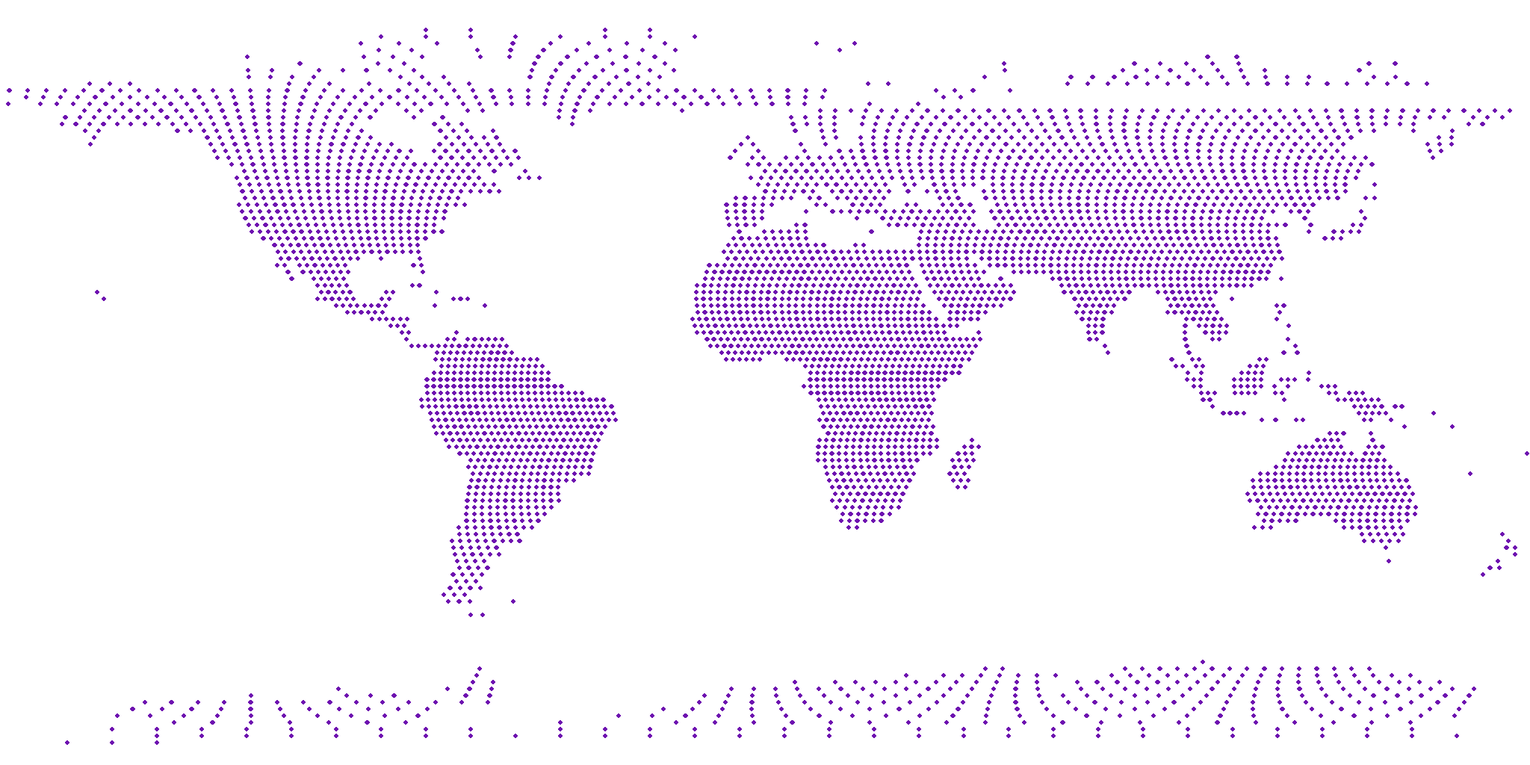
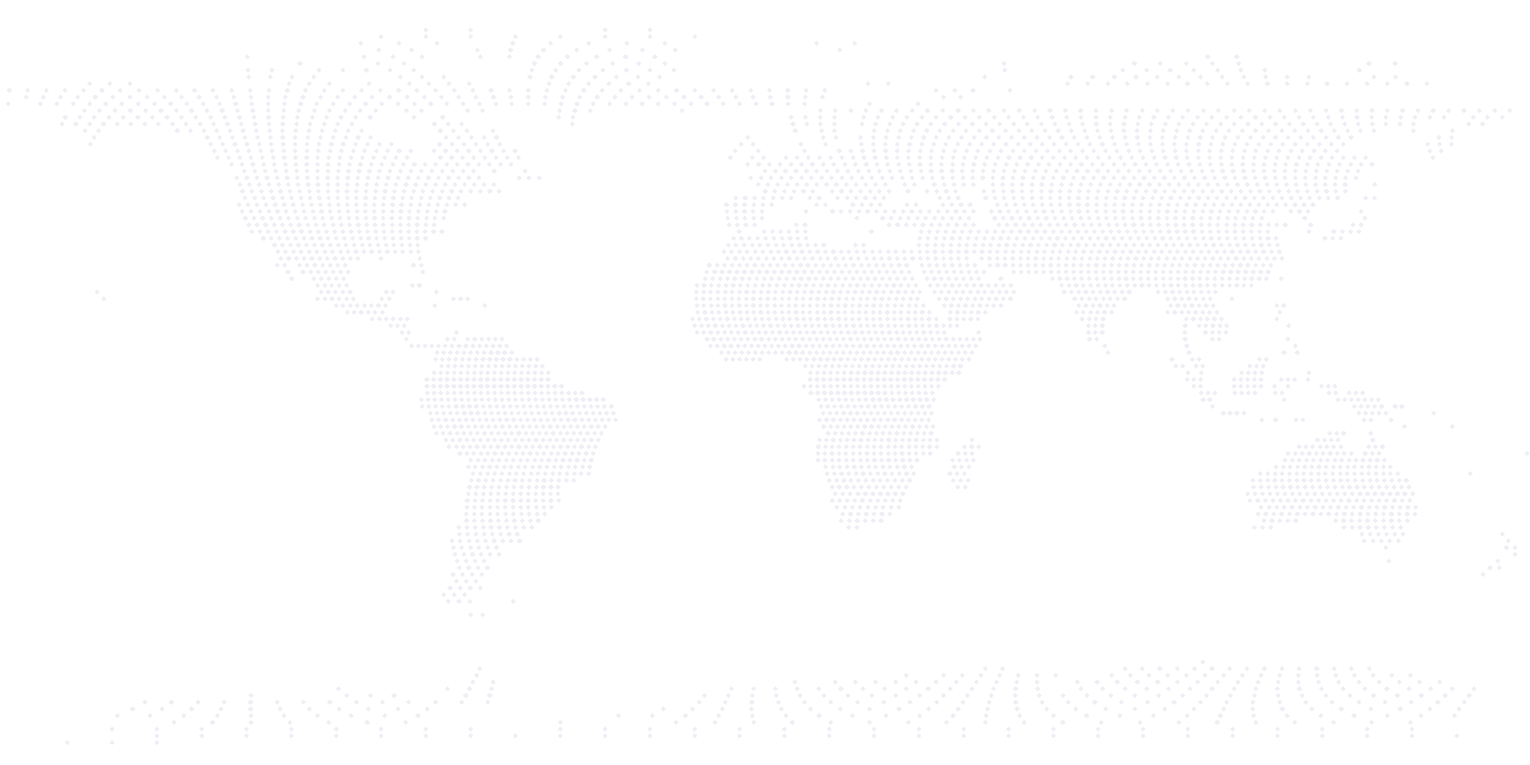
feat(globe): oceano roxo e continentes claros (D-56)
A textura NÃO foi regerada do Natural Earth: ela é 1 bit, indexada, com paleta
de 2 cores. Trocar a entrada [1] da PLTE e recalcular o CRC do chunk deixa a
geometria byte a byte idêntica — 11.372 bytes, os mesmos — e elimina o risco
de uma reprojeção deslocar Dublin para o mar sem ninguém notar. Os contornos do
Natural Earth continuam sendo exatamente os mesmos que o D-19 assou.

Isso também resolve a frente 2 do D-44: partindo de cinza quase branco, o
`color` do material (que multiplica) alcança qualquer valor nos dois temas com
UMA textura só.

O oceano vira `primary` sólido, trivialmente temável. A malha wireframe fica
ENTRE os continentes e o marcador — 1.003 contra 1.005 — então o teste de
profundidade garante que ela nunca cruze por cima do pin.

O anel de radar precisou de duas faixas, e a medição explica por quê: sobre o
oceano rgb(154,103,183) o primary-deep dá 2,11:1; sobre o continente
rgb(237,231,244) o claro dá 1,21:1. Nenhuma cor única serve às duas superfícies
que o pulso atravessa. Com uma faixa clara e uma escura, o pior caso de cada
superfície vira 4,20:1 e 7,32:1.

Medido: continentes x oceano em 3,47:1, contra 3,89:1 sem a malha — ela custa
0,42 de contraste e o resultado segue acima do limiar de 3:1 para gráfico não
textual. A atmosfera sobreviveu à inversão sem saturar.

diff --git a/src/components/three/Marker.tsx b/src/components/three/Marker.tsx
@@ -1,8 +1,10 @@
 import { useRef } from 'react'
 import { useFrame } from '@react-three/fiber'
-import type { Mesh, Vector3 } from 'three'
+import type { Group, Mesh, Vector3 } from 'three'
 
 const PRIMARY_DEEP = '#6e11b0'
+/** Faixa clara do anel (D-56). Ver o comentário do pulso para o porquê de duas. */
+const CLARO = '#f4f1f8'
 
 /** Haste fina e curta: marcador, não bandeira (D-25). */
 const HASTE_RAIO = 0.006
@@ -26,15 +28,19 @@ const PONTA_RAIO = 0.03
  * superfície**: tudo aqui dentro é posicionado ao longo dele.
  */
 export function Marker({ position }: { position: Vector3 }) {
-  const anel = useRef<Mesh>(null)
+  const anel = useRef<Group>(null)
+  const faixaEscura = useRef<Mesh>(null)
+  const faixaClara = useRef<Mesh>(null)
 
   useFrame((state) => {
     if (!anel.current) return
     // pulso de 2 s: cresce e some, como um sinal de radar
     const t = (state.clock.elapsedTime % 2) / 2
     anel.current.scale.setScalar(1 + t * 2.2)
-    const material = anel.current.material as { opacity: number }
-    material.opacity = (1 - t) * 0.55
+    const opacidade = (1 - t) * 0.55
+    for (const faixa of [faixaEscura.current, faixaClara.current]) {
+      if (faixa) (faixa.material as { opacity: number }).opacity = opacidade
+    }
   })
 
   const paraFora = position.clone().multiplyScalar(2)
@@ -45,11 +51,25 @@ export function Marker({ position }: { position: Vector3 }) {
       position={position}
       onUpdate={(self) => self.lookAt(paraFora)}
     >
-      {/* anel de radar — continua na BASE, rente à superfície */}
-      <mesh ref={anel} position={[0, 0, 0.001]}>
-        <ringGeometry args={[0.032, 0.042, 32]} />
-        <meshBasicMaterial color={PRIMARY_DEEP} transparent opacity={0.5} toneMapped={false} />
-      </mesh>
+      {/*
+        Anel de radar, na BASE e rente à superfície — em DUAS faixas depois do
+        D-56. O pulso cresce 2,2× e atravessa a costa, então cruza as duas
+        superfícies do globo novo, e medindo elas não têm cor comum: sobre o
+        oceano `rgb(154,103,183)` o `primary-deep` dá 2,11:1 e some; sobre o
+        continente `rgb(237,231,244)` o branco dá 1,21:1 e some. Nenhuma cor
+        única resolve. Com uma faixa clara e uma escura, uma das duas sempre
+        contrasta, seja onde for que o pulso esteja passando.
+      */}
+      <group ref={anel} position={[0, 0, 0.001]}>
+        <mesh ref={faixaEscura}>
+          <ringGeometry args={[0.032, 0.038, 32]} />
+          <meshBasicMaterial color={PRIMARY_DEEP} transparent opacity={0.5} toneMapped={false} />
+        </mesh>
+        <mesh ref={faixaClara} position={[0, 0, 0.0002]}>
+          <ringGeometry args={[0.038, 0.044, 32]} />
+          <meshBasicMaterial color={CLARO} transparent opacity={0.5} toneMapped={false} />
+        </mesh>
+      </group>
 
       {/* pé da haste, para ela não parecer flutuando */}
       <mesh position={[0, 0, 0.002]}>

diff --git a/src/components/three/Globe.tsx b/src/components/three/Globe.tsx
@@ -12,6 +12,12 @@ import {
 } from 'three'
 
 const PRIMARY = '#8c62ac'
+/**
+ * Roxo mais claro, só para a malha (D-56). Mesma matiz da marca, um degrau
+ * acima em luminosidade — é decorativo dentro da cena 3D, não texto, então a
+ * regra 6 do CLAUDE.md não se aplica aqui.
+ */
+const MALHA = '#c9a8e2'
 
 const RADIUS = 1.6
 
@@ -170,16 +176,40 @@ export function Globe({ progress, drag }: Props) {
 
   return (
     <group ref={group}>
-      {/* 1 — corpo opaco */}
+      {/*
+        1 — o oceano. D-56 inverteu o globo: o corpo era quase branco e os
+        continentes eram roxos. Agora o corpo é roxo e os continentes são
+        cinza-claros, o que também resolve o tema escuro: partindo de cinza
+        quase branco, `color` (que multiplica) alcança qualquer valor nos dois
+        temas com UMA textura só, sem segundo PNG.
+      */}
       <mesh>
         <sphereGeometry args={[RADIUS * 0.995, 48, 48]} />
-        <meshBasicMaterial color="#fbfafd" />
+        <meshBasicMaterial color={PRIMARY} />
       </mesh>
 
-      {/* 2 — continentes */}
+      {/* 2 — continentes, agora claros */}
       <mesh>
         <sphereGeometry args={[RADIUS, 64, 64]} />
         <meshBasicMaterial map={texture} transparent toneMapped={false} />
+      </mesh>
+
+      {/*
+        3 — a malha. Fica ENTRE os continentes e o marcador: o pin está em
+        RADIUS * 1.005 e ela em 1.003, então o teste de profundidade garante
+        que ela nunca cruze por cima dele. `depthWrite={false}` para ela também
+        não esconder nada que venha depois.
+      */}
+      <mesh>
+        <sphereGeometry args={[RADIUS * 1.003, 18, 12]} />
+        <meshBasicMaterial
+          color={MALHA}
+          wireframe
+          transparent
+          opacity={0.12}
+          depthWrite={false}
+          toneMapped={false}
+        />
       </mesh>
 
       <Marker position={dublin} />

diff --git a/docs/PRD.md b/docs/PRD.md
@@ -2,7 +2,7 @@
 
 | | |
 |---|---|
-| **Versão** | 5.6 |
+| **Versão** | 5.8 |
 | **Última revisão** | 05/09/2026 |
 | **Responsável** | Raul Rodrigues ([@RaulRodriguexz](https://github.com/RaulRodriguexz)) |
 | **Status** | Aprovado — em execução (Passos 1 a 8 concluídos, 9 parcial) |
@@ -47,6 +47,8 @@
 
 | Versão | Data | O que mudou |
 |---|---|---|
+| 5.8 | 06/09/2026 | **Fila enxugada:** os 10 itens concluídos de 05–06/09 saíram de "em andamento" e viraram uma linha de resumo. **Restam dois: D-56 e D-44.** |
+| 5.7 | 06/09/2026 | Adendo ao **D-44, frente 7** — o desenho do botão, a partir de uma referência do Raul: ficam os **ícones sol/lua em SVG**, a transição de 0,3 s **no ícone** e o `localStorage`; saem o **neumorfismo** (sombra macia e baixo contraste brigam com a linguagem chapada do site e com a acessibilidade do botão) e a **transição no fundo** (com o `useAmbientTint` reescrevendo a cada quadro, arrastaria a cor durante a rolagem). |
 | 5.6 | 06/09/2026 | Inventário do modo escuro feito em cima do código, antes de qualquer linha, e ele mudou o plano. Aberta a **D-57 — bloqueador**: o `useAmbientTint` escreve `--ambient` absoluto e o tema escuro **não pintaria**. Descoberto que o **D-56 é pré-requisito da frente 2** e dissolve o problema da textura: partindo de cinza claro, uma textura só serve os dois temas. Ordem fixada: **D-56 → D-57 → 1 → 6 → 7 → 3 → 5 → 2**. Registrado o corte limpo: se apertar, corta-se o item **inteiro**, nunca o meio. Acrescentado ao D-56 o que sobrevive e o que quebra na inversão (o anel de radar). |
 | 5.5 | 06/09/2026 | Acrescentado ao **D-56** o que sobrevive à inversão (giro, arrasto e oclusão, verificados no código) e o que quebra: o **anel de radar** atravessa a costa e some no oceano roxo. |
 | 5.4 | 06/09/2026 | Aberta a **D-56**: o globo inverte — oceano roxo, continentes cinza-claros, mais uma malha de triângulos —, a partir de uma referência do Envato que o Raul trouxe. Referência, **não ativo**: é vídeo, e vídeo como textura mataria o arrasto. Entra **antes** do D-44, que passa a adaptar este desenho em vez de inventar outro. |
@@ -112,6 +114,7 @@ Repositório: <https://github.com/RaulRodriguexz/portfolio-3d-v2> · Deploy auto
 | **Arrasto do globo** | D-29 e D-30 entregues — captura na `<section>`, critério a 45°, `touch-action: pan-y pinch-zoom`, inércia dobrada na `base` |
 | **Largura e leitura** | D-31 e D-39 entregues — Container 96 rem, hero 104 rem, prosa em `rem` com máximo medido de 74 caracteres por linha |
 | **Ritmo e densidade** | D-32 a D-35 e M-24 entregues — coluna de metadados por seção, numeração derivada do `id`, faixa de impacto, marcador `BR → IE` |
+| **Globo invertido** | D-56 entregue — oceano roxo e continentes claros com 3,47:1 entre si, malha custando 0,42 de contraste, anel de radar em duas faixas para cruzar as duas superfícies. Textura recolorida na paleta: 11.372 bytes, os mesmos |
 | **Globo: giro livre depois do arrasto** | D-55 entregue — soltar suspende o assentamento; medido 6,6% de pixels mudando por 800 ms depois de 8 s sem rolagem, contra 0,18% depois de uma rolagem |
 | **Globo: volta completa e zona de arrasto** | D-54 entregue — teto de ±60° removido com assentamento congruente no eixo X (sem ele o percurso chegava a 6π para trás), gesto só **começa** perto do planeta, e o `cursor-grab` que era inerte passou a funcionar |
 | **Hierarquia na Stack e rodapé** | D-53 entregue — títulos em 20 px/700 com 20,12:1, uma ênfase por grupo **sem fundo** (5 em prosa com, 4 em grade sem), rodapé em 700 contra 400 |
@@ -136,18 +139,10 @@ Repositório: <https://github.com/RaulRodriguexz/portfolio-3d-v2> · Deploy auto
 
 | Ordem | Item | Onde | Estado |
 |---|---|---|---|
-| 1 | `WORKFLOW.md` reduzido a método + `CLAUDE.md` deixa de rotear para ele (D-47) | `docs/WORKFLOW.md`, `.claude/CLAUDE.md` | ✅ feito em 05/09 |
-| 2 | `ARCHITECTURE.md` corrigido + contrato de camadas + `Thread.tsx` para `layout/` (D-48) | `docs/ARCHITECTURE.md`, `components/` | ✅ feito em 05/09 |
-| 3 | Reveal palavra a palavra nos `h2` (M-26) | `layout/Section.tsx` | ✅ feito em 05/09 |
-| 4 | Links e botões magnéticos (M-27) | CTAs do Statement, copiar e-mail, baixar CV | ✅ feito em 05/09 |
-| 5 | Ponto de luz na ponta do fio (M-28, D-51) | `layout/Thread.tsx` | ✅ feito em 05/09 |
-| 6 | **Contraste entre blocos (D-52)** — citação de abertura, marca-texto, subtítulo em dois | `sections/About.tsx`, `ui/Emphasis.tsx`, `data/profile.ts` | ✅ feito em 05/09 |
-| 7 | **Hierarquia na Stack e no rodapé (D-53)** | `sections/Stack.tsx`, `layout/Footer.tsx`, `data/stack.ts` | ✅ feito em 05/09 |
-| 8 | Auditoria de foco (RNF-06) e página 404 própria | global, `vercel.json` ou `404.html` | ✅ feito em 05/09 |
-| 9 | **Globo: volta completa e arrasto que começa perto (D-54)** | `three/Globe.tsx` (`MAX_TILT` e o clamp), `hooks/useGlobeDrag.ts`, `sections/Location.tsx` | ✅ feito em 05/09 |
-| 10 | **Globo continua girando depois da soltura (D-55)** | `three/Globe.tsx`, `hooks/useGlobeDrag.ts` | ✅ feito em 05/09 |
-| 11 | **Globo invertido: oceano roxo, continentes cinza (D-56)** | `three/Globe.tsx`, `three/Marker.tsx`, `public/images/world-dots.png` (regerar claro) | a fazer — **pré-requisito do D-44** |
-| 12 | **Modo escuro (D-44)**, nesta ordem de frentes: **D-57 → 1 → 6 → 7 → 3 → 5 → 2** | `hooks/useAmbientTint.ts`, `index.css`, `index.html`, `Header.tsx`, `three/*` | a fazer — **último. Ler D-49, D-57 e o adendo do D-44 antes da primeira linha** |
+| 1 | **Globo invertido: oceano roxo, continentes cinza (D-56)** | `three/Globe.tsx`, `three/Marker.tsx`, `public/images/world-dots.png` (regerar claro) | ✅ feito em 06/09 |
+| 2 | **Modo escuro (D-44)**, nesta ordem de frentes: **D-57 → 1 → 6 → 7 → 3 → 5 → 2** | `hooks/useAmbientTint.ts`, `index.css`, `index.html`, `Header.tsx`, `three/*` | a fazer — **último. Ler D-49, D-57 e o adendo do D-44 antes da primeira linha** |
+
+**Concluídos nesta fila (05–06/09):** 10 itens, todos em produção — D-47, D-48, M-26, M-27, M-28/D-51, D-52, D-53, foco + 404, D-54 e D-55. O detalhe de cada um está em **Concluído**, acima, e no log da seção 14.
 
 Um commit por item, com confirmação do Raul entre eles.
 
@@ -763,7 +758,7 @@ Toda mudança de rumo vive aqui, com data e motivo. É a memória do projeto.
 | **D-41** | 04/09 | O hero passa a ter uma linha de alinhamento compartilhada: o palco do Memoji vira coluna própria à direita a partir de `lg`, e um filho flex que ocupa a altura restante em qualquer largura | Crítica externa, confirmada por medição em produção (`3ce9431`) nos **dois** caminhos de renderização. A causa eram dois eixos independentes. **Horizontal:** o Memoji era ancorado ao centro da viewport (`left-1/2` no `<img>`; deslocamento fixo de mundo que projetava em centro+125 px na cena 3D) enquanto o `h1` era ancorado ao padding do container. Como o `h1` tem largura fixa de 567 px a partir de `lg`, o vão encolhia junto com a viewport: sobreposição de 118 px no `<img>` a 1440 px e de 310 px a 1024 px. **Vertical:** o Memoji era ancorado à base do hero e o texto ao topo, então a folga era o que sobrasse de `94vh` — 318 px a 1440×1080, mas **−39 px a 1440×700**, altura de notebook real. É essa combinação que punha as últimas letras sobre o ombro; em tela de 1080 px as projeções se cruzavam mas os pixels não. **Correção:** o halo continua sangrando a dobra, mas o palco saiu da camada `inset-0` e virou filho flex com `flex-1` — colisão vertical deixa de ser possível por construção, em vez de depender de um deslocamento que colapsa em janela baixa. A partir de `lg` ele ganha `ml-auto` e largura própria, então o vão acompanha o layout. O `<img>` passa a ser dimensionado pela altura disponível, com teto de 28 rem para não inchar de 400 para 655 px em tela alta; abaixo de 640 px o dimensionamento antigo fica intacto. Na cena 3D o deslocamento `x = 0.55` foi removido — com o palco já à direita, ele movia duas vezes — e a escala subiu de 0,9 para 1,3, porque a cena é dimensionada pela altura do canvas e o palco ficou mais baixo. **Medido depois:** gutter de 43 a 626 px e folga vertical de 101 a 169 px na cena 3D; gutter de 224 a 459 px e folga vertical de 32 a 320 px no `<img>`, com zero colisão em 1920/1440/1200/1024/768/360 e em alturas de 1080, 800 e 700 px. Zero overflow horizontal. O fio (M-25) sobreviveu porque é gerado por medição: mudou de forma (5896 → 5704 a 1440 px), não quebrou. **Revisão de 04/09 — o deslocamento lateral era resíduo.** A coluna própria à direita foi criada para abrir um vão horizontal até o nome, mas isso era cinto e suspensório: assim que a separação vertical virou **estrutural** (palco como filho flex, colisão impossível por construção), o vão deixou de ser necessário e o que sobrou foi um Memoji **357 px à direita do eixo do conteúdo**. O palco voltou à largura cheia, então seu centro é o centro do container — que é o eixo do conteúdo, porque o container é centrado. Medido: desvio caiu de +357 px para **+10 px na cena 3D e +9 px no `<img>`**, constante em 1920, 1440, 1024, 768 e 360 px, e as faixas horizontais passam a se cruzar em até 256 px **sem se tocarem**, porque a folga vertical fica entre 48 e 185 px. Centralizar não é alinhar à grade: é simetria, e simetria precisa de eixo, não de aresta — o eixo é o vão entre as duas colunas de texto do D-22. **Nada disso é feito em unidades de mundo na cena**: unidade de mundo não acompanha breakpoint, que foi o que reprovou o experimento de empurrar o Memoji para a borda direita (alinhava a −2 px em 1920 e +4 px em 1440, mas estourava 46 px a 1200 e 1024). **⚠ A órbita, não a pele, define o espaço lateral que a cena precisa.** O `Backdrop` desenha uma elipse bem mais larga que o Memoji, e foi ela que reprovou aquele experimento: empurrado para a borda, o Memoji fazia a elipse ser cortada pelo canvas e virar um arco aberto. Antes desta revisão ela já raspava a borda direita (4 pixels nas colunas extremas a 1440×900); depois, **zero em todas as larguras**. Qualquer reposicionamento futuro do Memoji tem de ser julgado pela órbita, não pela pele | Ativa |
 | **D-42** | 04/09 | O header vira três partes — marca, navegação centrada, ação — e ganha um `Get in touch` fixo apontando para `#contact` | A nav encostada à direita deixava o canto direito sem função e o topo sem caminho de contato, que é o objetivo nº 1 da seção 2. **Descoberta no caminho:** o header usava `Container` (96 rem) e o hero usa `Container wide` (104 rem). A 1440 px as duas coincidiam por acaso, porque ambas estavam presas ao padding; a 1920 px davam **60 px de diferença à esquerda e 64 px à direita**. Duas bordas quase iguais leem como torto — é pior que duas claramente diferentes. Header passou a `wide`. **Centragem:** a nav é centrada por posicionamento absoluto sobre o container, não por `justify-between` — com três itens de larguras diferentes, o do meio só ficaria no centro por coincidência. Ela centra sobre a área de conteúdo, o que dá 7 px de diferença do centro da viewport: é a metade da barra de rolagem, e é o comportamento certo, porque o que a pessoa vê como página é a área de conteúdo. **CTA:** âncora e não botão, para o header seguir fino. No mobile não cabe ao lado do `Menu` sem apertar a marca, então virou o último item do menu, destacado por cor e por uma linha acima. **Medido depois, na tinta e não na caixa** (`Range` sobre os nós de texto, ignorando padding): borda esquerda com **0 px** de diferença entre o ícone da marca e o `h1`, e borda direita com **−1 px** entre o CTA e a função do hero, constantes em 1920, 1440 e 1024 px. A diferença de 4 px na caixa é o `p-1` com `-mr-1`, a mesma compensação óptica da marca à esquerda. Ordem de tabulação segue a ordem visual: marca → navegação → ação. **Mudança de grade, fora da especificação original:** passar o header de 96 rem para `wide` altera a grade da página inteira, não só do header, e por isso fica registrada aqui em vez de ficar só no commit — o header é o único elemento presente em todas as seções, então a largura dele é a régua contra a qual tudo o mais é lido. Antes: 60 px de divergência à esquerda e 64 px à direita a 1920 px, 0 px a 1440 px. Depois: 0 px e −1 px de tinta em 1920, 1440 e 1024. **Os dois links para `#contact` ficam** — "Contact" é navegação e "Get in touch" é chamada, rótulos diferentes servindo intenções diferentes, e `navItems` também alimenta o `useActiveSection`, então remover custaria mais do que ganharia | Ativa |
 | **D-43** | 05/09 | O Memoji volta ao **centro** da área de conteúdo. O experimento de alinhá-lo à borda direita foi testado e **descartado** | Duas decisões numa. **O experimento (descartado):** alinhar a borda óptica do Memoji à borda direita do conteúdo falhou por três motivos, dois observáveis. (1) A elipse do `Backdrop` é mais larga que o Memoji: empurrado para a borda, ela bate no limite do canvas e deixa de ser elipse fechada — vira arco truncado. **Consequência geral, e é a parte que vale guardar: quem define o espaço lateral que a cena precisa é a órbita, não a pele.** (2) Um deslocamento fixo em unidades de mundo não acompanha breakpoint — alinhava a −2 px em 1920 e passava 46 px da margem em 1200 e 1024, porque abaixo de `xl` o padding do container cai de 64 para 48 px. Consertar exigiria número por breakpoint, exatamente o que se evitou no fio (M-25). (3) O Memoji é uma silhueta curva: o ponto mais à direita é a tangente do cabelo, não uma aresta — e a órbita cruza qualquer linha que se tente compartilhar. **A decisão (ativa):** o Memoji estava 335 px à direita do centro (centro dele em 1055, centro da tela em 720, medido em 1440×900), resíduo lateral do D-41 que deixou de ser necessário quando a separação nome/cena virou estrutural — folga vertical de +151 px, ele está inteiramente abaixo do `h1`. Centralizar devolve a intenção original do D-22 (nome à esquerda, função à direita, **cena no meio**) e preenche o miolo oco do hero. Feito por **layout**, nunca por deslocamento em unidades de mundo, pelo motivo (2) acima. As três razões do experimento são todas contra empurrar para a **direita**; nenhuma impede centralizar, porque o centro afasta a órbita das duas bordas e simetria precisa de eixo, não de aresta | Aberta |
-| **D-44** | 05/09 | **Modo escuro com botão de alternância entra na v1**, e entra por último. Reverte a exclusão da seção 6 | Pedido explícito do Raul, repetido duas vezes — o segundo pedido é o que mudou a decisão: ideia repetida é vontade, ideia dita uma vez é impulso. O custo, escrito para ninguém subestimar depois: (1) tokens do `@theme` em variante escura, com **contraste AA remedido nos dois temas** — o que passa no claro não passa automaticamente no escuro; (2) as **duas cenas 3D** foram calibradas para fundo claro (D-18, D-19) — halo do Memoji, sombra de contato, textura de pontos do globo, cor das órbitas e poeira precisam de variante; (3) o grão (D-36) a 2,8% sobre branco não é 2,8% sobre preto: recalibrar e remedir o contraste do texto miúdo; (4) o tom ambiente do M-10 precisa de par escuro; (5) o fio roxo (M-25) a 50% de opacidade pode sumir ou berrar; (6) **persistência sem flash branco na primeira pintura** — script inline antes do paint; um toggle que pisca branco em quem escolheu escuro é pior que não ter toggle; (7) o botão acessível por teclado, com estado anunciado. **Posição na fila: último.** É o único item cuja ausência não impede o lançamento, e por isso é o primeiro a ser cortado se o prazo de 10/10 apertar — um site claro no ar em Dublin vale mais que um site de dois temas em construção. Se qualquer frente custar mais do que o previsto, o Claude Code avisa **antes** de começar: cortar com clareza é melhor que entregar pela metade. **Adendo de 05/09 — a paleta escura, pedida pelo Raul ("o roxo pode ficar mais brilhante no escuro?"). Sim, e é obrigatório:** o `primary-deep` tem luminosidade 0,438 em OKLCH, isto é, é um roxo **escuro**, desenhado para fundo claro — sobre um fundo escuro ele reprova o contraste AA e some. O tema escuro recebe **par próprio de roxos**, não os mesmos tokens: o roxo de **texto** sobe de luminosidade até passar 4,5:1 sobre o fundo escuro (ponto de partida a medir, algo em torno de `oklch(0.78 0.16 303.724)`), e o **decorativo** pode ganhar saturação, porque cor viva sobre fundo escuro é onde ela realmente rende. A **matiz 303.724 não muda em nenhum dos dois** — é a identidade da marca, e mexer nela troca a cor em vez de adaptá-la. **O fundo não pode ser preto puro:** roxo saturado sobre preto absoluto causa *halation* — a cor parece vibrar e sangrar nas bordas, cansa a vista e é bem pior para quem tem astigmatismo. Usar um fundo bem escuro com um toque da própria matiz da marca, na faixa de `oklch(0.19 0.02 303.724)`. Consequências que caem nas outras frentes: o **grão** (D-36) lê mais forte sobre escuro e precisa de opacidade menor, não igual; o **fio** (M-25) e as órbitas com `AdditiveBlending` **estouram** com facilidade em fundo escuro, então a intensidade tende a **cair**, não subir; e o halo branco atrás do Memoji deixa de ser lavado claro e vira brilho. Tudo isso **medido nos dois temas** — a regra da 5.2.1 vale aqui em dobro. **Adendo de 06/09 — o plano, depois do inventário feito em cima do código.** Custo por frente: **(1) tokens** — 7 tokens × 2 temas, médio; **(2) as duas cenas 3D** — 12 cores fixas em 5 arquivos de `three/`, alto, e é onde mora a única incerteza; **(3) grão** — uma regra, baixo; **(4) tom ambiente** — ver **D-57, é bloqueador**; **(5) fio** — **de graça**, e não era esperado: o `Thread` já usa `var(--color-primary)` e `var(--color-primary-deep)` no traço e nos dois círculos do M-28, então acompanha o tema sozinho; sobra decidir se `strokeOpacity 0.5` cai no escuro, que é um número; **(6) persistência sem flash** — `index.html`, baixo; **(7) botão** — `Header.tsx`, baixo. **Ordem obrigatória: D-56 → frente 4 (D-57) → 1 → 6 → 7 → 3 → 5 → 2.** O D-56 primeiro porque a textura clara dissolve o problema da frente 2; a 4 logo depois porque **sem ela nada pinta**; a 2 por último porque é onde está a incerteza. **O que a frente 1 obriga a remedir e não é óbvio:** o marca-texto do D-52 (`primary/15` sob `primary-deep`) e a ênfase sem fundo do D-53 dependem os dois de roxo sobre `canvas` — com par próprio de roxos, **os dois números mudam** e precisam passar de novo pelos 4,5:1. **Corte limpo, se o calendário apertar:** parar depois da frente 7 — interface escura completa com as duas cenas 3D ainda calibradas para claro. **Não entregar assim.** Cenas claras sobre fundo escuro são inconsistência visível, e entre isso e não ter modo escuro, **não ter é melhor**. O corte é o item inteiro, não o meio dele | Aberta |
+| **D-44** | 05/09 | **Modo escuro com botão de alternância entra na v1**, e entra por último. Reverte a exclusão da seção 6 | Pedido explícito do Raul, repetido duas vezes — o segundo pedido é o que mudou a decisão: ideia repetida é vontade, ideia dita uma vez é impulso. O custo, escrito para ninguém subestimar depois: (1) tokens do `@theme` em variante escura, com **contraste AA remedido nos dois temas** — o que passa no claro não passa automaticamente no escuro; (2) as **duas cenas 3D** foram calibradas para fundo claro (D-18, D-19) — halo do Memoji, sombra de contato, textura de pontos do globo, cor das órbitas e poeira precisam de variante; (3) o grão (D-36) a 2,8% sobre branco não é 2,8% sobre preto: recalibrar e remedir o contraste do texto miúdo; (4) o tom ambiente do M-10 precisa de par escuro; (5) o fio roxo (M-25) a 50% de opacidade pode sumir ou berrar; (6) **persistência sem flash branco na primeira pintura** — script inline antes do paint; um toggle que pisca branco em quem escolheu escuro é pior que não ter toggle; (7) o botão acessível por teclado, com estado anunciado. **Posição na fila: último.** É o único item cuja ausência não impede o lançamento, e por isso é o primeiro a ser cortado se o prazo de 10/10 apertar — um site claro no ar em Dublin vale mais que um site de dois temas em construção. Se qualquer frente custar mais do que o previsto, o Claude Code avisa **antes** de começar: cortar com clareza é melhor que entregar pela metade. **Adendo de 05/09 — a paleta escura, pedida pelo Raul ("o roxo pode ficar mais brilhante no escuro?"). Sim, e é obrigatório:** o `primary-deep` tem luminosidade 0,438 em OKLCH, isto é, é um roxo **escuro**, desenhado para fundo claro — sobre um fundo escuro ele reprova o contraste AA e some. O tema escuro recebe **par próprio de roxos**, não os mesmos tokens: o roxo de **texto** sobe de luminosidade até passar 4,5:1 sobre o fundo escuro (ponto de partida a medir, algo em torno de `oklch(0.78 0.16 303.724)`), e o **decorativo** pode ganhar saturação, porque cor viva sobre fundo escuro é onde ela realmente rende. A **matiz 303.724 não muda em nenhum dos dois** — é a identidade da marca, e mexer nela troca a cor em vez de adaptá-la. **O fundo não pode ser preto puro:** roxo saturado sobre preto absoluto causa *halation* — a cor parece vibrar e sangrar nas bordas, cansa a vista e é bem pior para quem tem astigmatismo. Usar um fundo bem escuro com um toque da própria matiz da marca, na faixa de `oklch(0.19 0.02 303.724)`. Consequências que caem nas outras frentes: o **grão** (D-36) lê mais forte sobre escuro e precisa de opacidade menor, não igual; o **fio** (M-25) e as órbitas com `AdditiveBlending` **estouram** com facilidade em fundo escuro, então a intensidade tende a **cair**, não subir; e o halo branco atrás do Memoji deixa de ser lavado claro e vira brilho. Tudo isso **medido nos dois temas** — a regra da 5.2.1 vale aqui em dobro. **Adendo de 06/09 — o plano, depois do inventário feito em cima do código.** Custo por frente: **(1) tokens** — 7 tokens × 2 temas, médio; **(2) as duas cenas 3D** — 12 cores fixas em 5 arquivos de `three/`, alto, e é onde mora a única incerteza; **(3) grão** — uma regra, baixo; **(4) tom ambiente** — ver **D-57, é bloqueador**; **(5) fio** — **de graça**, e não era esperado: o `Thread` já usa `var(--color-primary)` e `var(--color-primary-deep)` no traço e nos dois círculos do M-28, então acompanha o tema sozinho; sobra decidir se `strokeOpacity 0.5` cai no escuro, que é um número; **(6) persistência sem flash** — `index.html`, baixo; **(7) botão** — `Header.tsx`, baixo. **Ordem obrigatória: D-56 → frente 4 (D-57) → 1 → 6 → 7 → 3 → 5 → 2.** O D-56 primeiro porque a textura clara dissolve o problema da frente 2; a 4 logo depois porque **sem ela nada pinta**; a 2 por último porque é onde está a incerteza. **O que a frente 1 obriga a remedir e não é óbvio:** o marca-texto do D-52 (`primary/15` sob `primary-deep`) e a ênfase sem fundo do D-53 dependem os dois de roxo sobre `canvas` — com par próprio de roxos, **os dois números mudam** e precisam passar de novo pelos 4,5:1. **Corte limpo, se o calendário apertar:** parar depois da frente 7 — interface escura completa com as duas cenas 3D ainda calibradas para claro. **Não entregar assim.** Cenas claras sobre fundo escuro são inconsistência visível, e entre isso e não ter modo escuro, **não ter é melhor**. O corte é o item inteiro, não o meio dele. **Adendo de 06/09 — o desenho do botão (frente 7), a partir de uma referência que o Raul trouxe.** Ele colou um prompt genérico de "botão dark mode" e pediu **a vibe**, não a execução. O que se aproveita e vira especificação: **ícones de sol e lua**, desenhados em **SVG**, nunca emoji — mesma razão do D-22 e do D-35: emoji muda de desenho a cada sistema e não aceita a cor da paleta; **transição suave de 0,3 s** no ícone e no estado do botão; **preferência salva em `localStorage`**, que a frente 6 já exige, somada ao script inline antes da primeira pintura. O que se **descarta, com motivo**: **(a) neumorfismo — não.** É estilo de sombra macia e baixo contraste, briga com a linguagem chapada e clara deste site e tem problema conhecido de acessibilidade justamente em botão de ação; o pedido real do Raul foi "moderno e minimalista", e minimalista é o que o site já é. **(b) transição de 0,3 s no FUNDO da página — não.** Com o `useAmbientTint` reescrevendo `--ambient` a cada quadro de rolagem (D-57), transição no fundo faz a página inteira **arrastar a cor durante o scroll**. A transição fica no ícone e no botão, não no `background`. **(c) separar em `index.html`, `style.css` e `script.js` — impossível aqui:** o projeto é React + Vite + Tailwind v4, o tema mora em `src/index.css` dentro de `@theme`, e esses arquivos não existem. **Restrições que continuam valendo:** botão fino, à altura do header do D-42; alcançável por teclado com estado anunciado (`aria-pressed` ou `role="switch"`), foco visível no padrão auditado; e a lua/sol respeitam `prefers-reduced-motion` como todo o resto | Aberta |
 | **D-45** | 05/09 | Varredura de texto visual × texto de máquina concluída. **Corrigido:** o `<br />` da Location. **Decidido NÃO corrigir:** a fita da Stack e os irmãos separados por `gap` | Auditoria completa, feita depois dos três casos que geraram a regra da 5.2.1. Resultado: os 14 títulos da página leem como frase correta, e rótulos numerados, faixa de impacto, coluna de metadados e rodapé estão limpos. Só o `<br />` da Location era da mesma classe — corrigido em `2c96e11`, `"Dublin,Ireland"` → `"Dublin, Ireland"`. **Duas coisas ficam como estão, e o motivo importa mais que a decisão.** (1) **A fita da Stack (M-9) repete a lista três vezes no texto da página** — a trilha é duplicada para o loop sem emenda e os mesmos itens já aparecem na grade acima. Para leitor de tela é inofensivo: o contêiner tem `aria-hidden="true"` e é ignorado inteiro. Para indexação é fraco, não fatal — repetir lista de palavras-chave é ruído, não penalidade. E os dois consertos possíveis custam mais que o problema: não existe em HTML um nó limpo que a extração de texto ignore, e gerar a segunda trilha por CSS tira conteúdo do DOM de um jeito que atrapalha mais do que ajuda. **Fica.** (2) **Irmãos separados por `gap`** — nav, tags dos cards, linhas do `<dl>`, CTAs — aparecem colados no `textContent` bruto, mas cada um é elemento próprio com nome acessível próprio, e o leitor de tela anuncia separadamente. Só apareceria para quem concatenasse o texto cru da página. **Não é defeito.** Registrado para ninguém "consertar" no futuro achando que é a mesma coisa do `<br />` | Resolvida |
 | **D-46** | 05/09 | As setas decorativas dos links ganham `aria-hidden="true"` — quatro lugares | Metade das setas do site já é decorativa e metade entra no nome acessível: `Live demo →` e `Code →` nos cards, `GitHub →` e `LinkedIn →` no Contato são anunciados com a seta junto, enquanto o rodapé e o `Get in touch` do header já a escondem. Não é a classe do `<br />` — ali faltava separação, aqui **sobra um caractere decorativo dentro do nome acessível**. É inconsistência, não escolha: o padrão certo já existe no próprio código, em dois lugares. Conserto: `aria-hidden="true"` no `<span>` da seta, como o rodapé faz. Serve o RNF-06. **Implementado:** os quatro links passaram ao padrão do rodapé — `group inline-flex items-center gap-1.5` com a seta num `<span aria-hidden>`. Efeito colateral desejado: o avanço no hover passa a ser da **seta** e não do link inteiro, que é o que o M-17 descreve e o que o rodapé já fazia; antes o `Live demo` deslocava o rótulo junto. Medido depois: os **dez** links com seta do site têm nome acessível limpo, e zero setas são lidas por leitor de tela | Ativa |
 | **D-47** | 05/09 | O `WORKFLOW.md` perde o plano e vira **documento de método**. O `CLAUDE.md` deixa de apontá-lo como fonte do "próximo passo" | Diagnóstico medido: o documento descreve os dez passos como trabalho a fazer quando todos já foram executados, prescreve um ritual de branches que o projeto **nunca usou** (o histórico tem uma `main` só), e o prompt do Passo 3 manda "reservar a metade direita da primeira dobra" — uma sessão que o executasse **desfaria o D-43**, entregue anteontem. O dano não é hipotético: o `CLAUDE.md` roteia toda sessão nova para lá em dois pontos, para buscar "o próximo passo". **Um documento de plano fica falso no dia em que o plano acaba** — e este acabou. O que sobrevive é bom e fica: as cinco regras (§1), a anatomia de um bom prompt (§3) e os prompts auxiliares (§5). Sai: o ciclo de branches (§2) e a lista de dez passos (§4). O limiar do §6 ("mais de cinco arquivos = passo grande demais") também sai: o D-31 tocou 12 arquivos e passou em build e medição, o D-42 tocou 3 — o número deixou de discriminar. O sinal que substitui é o que a prática já usa: **se você não consegue dizer o que muda em até 3 linhas, o passo está grande demais.** A partir daqui, a fonte do "próximo passo" é a **seção 0 deste PRD**, e só ela | Aberta |
